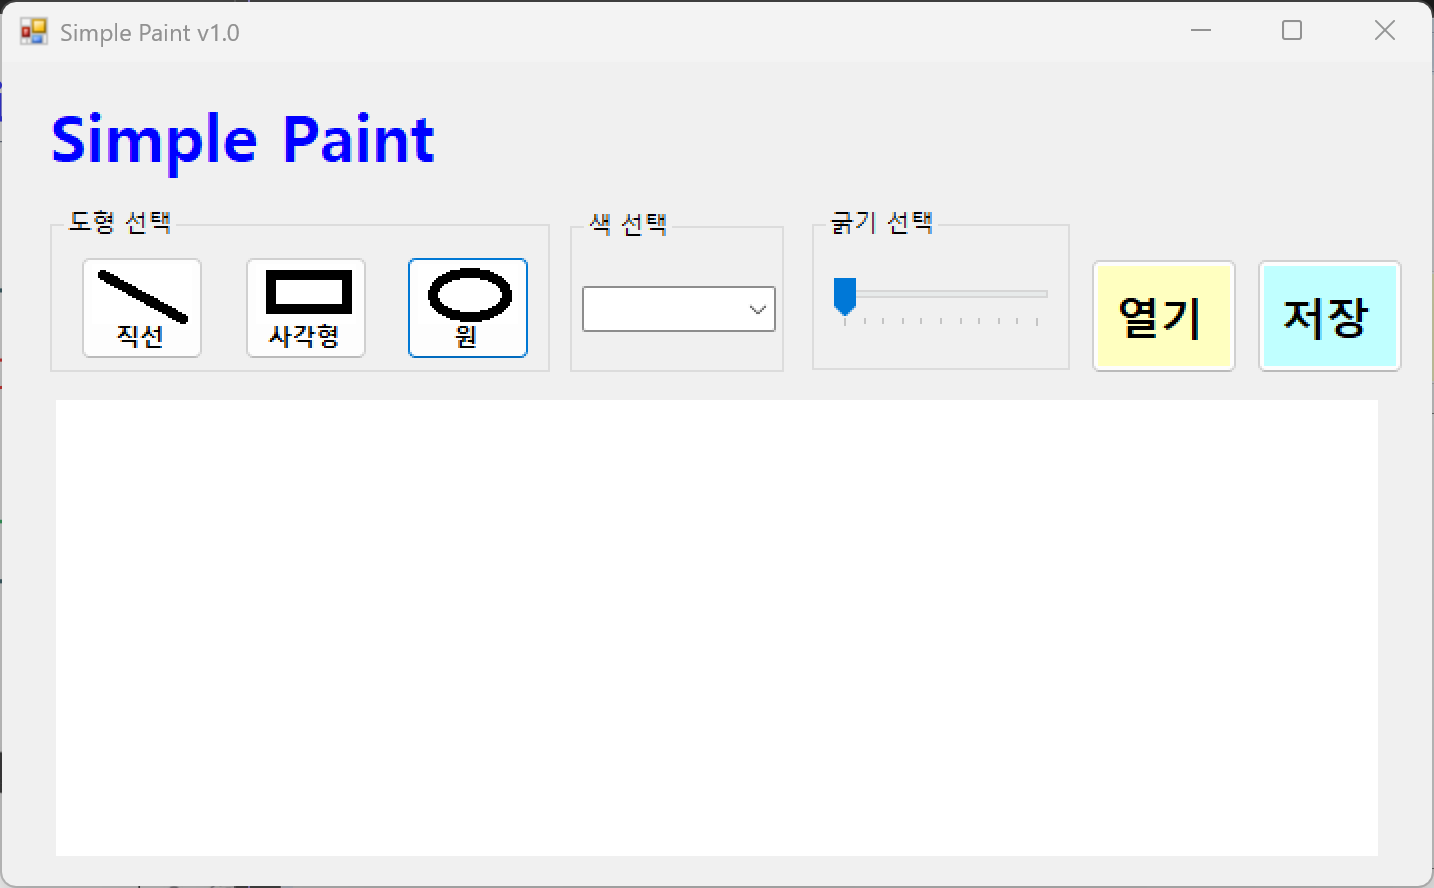
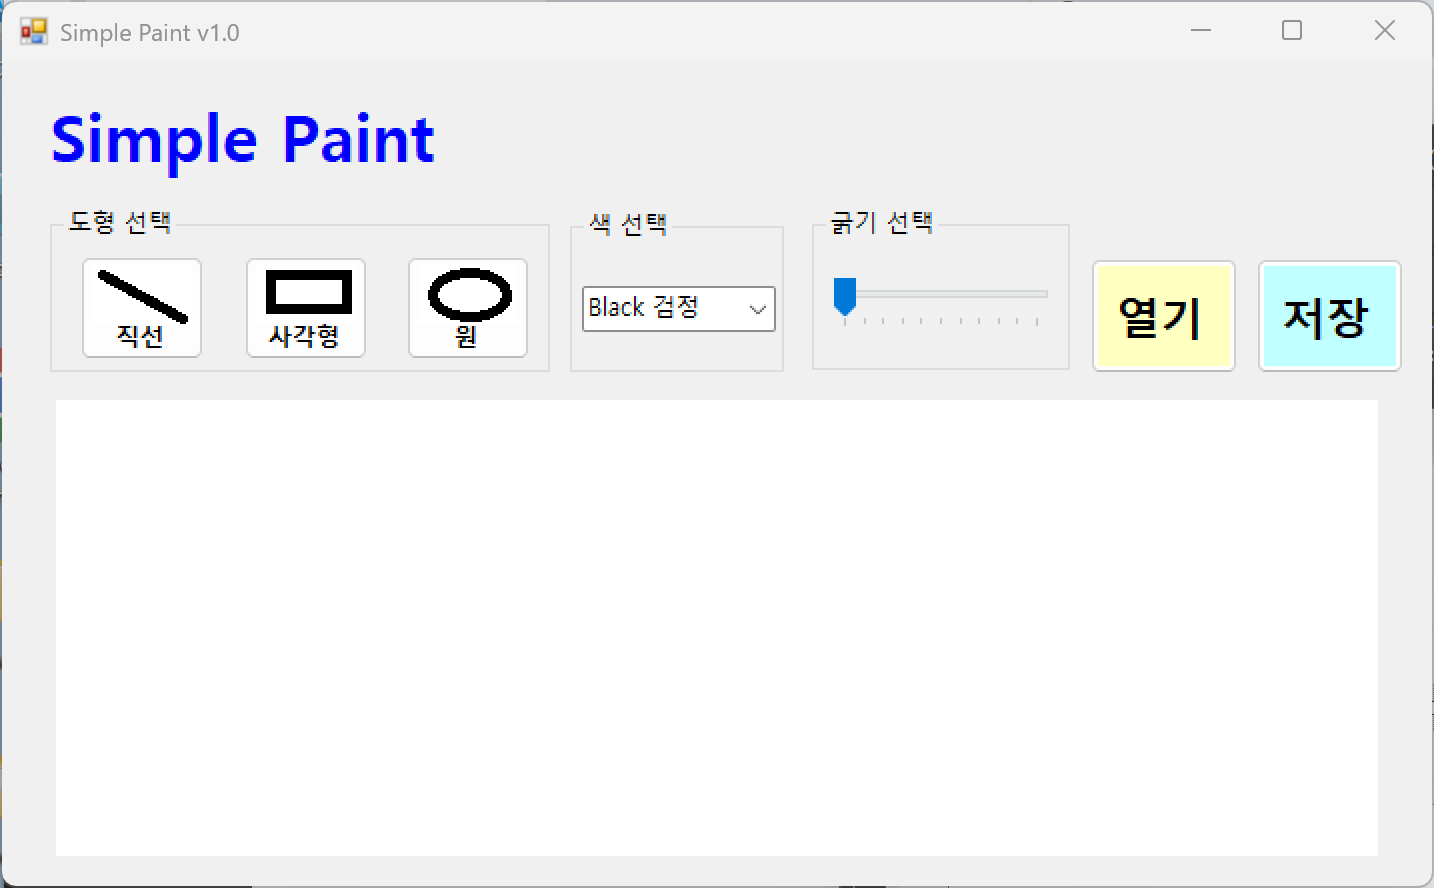
feat : add items in ComboBox

diff --git a/Form1.Designer.cs b/Form1.Designer.cs
@@ -173,6 +173,11 @@
             // cmbColor
             // 
             this.cmbColor.FormattingEnabled = true;
+            this.cmbColor.Items.AddRange(new object[] {
+            "Black 검정",
+            "Red 빨강",
+            "Blue 파랑",
+            "Green 녹색"});
             this.cmbColor.Location = new System.Drawing.Point(11, 75);
             this.cmbColor.Name = "cmbColor";
             this.cmbColor.Size = new System.Drawing.Size(177, 40);